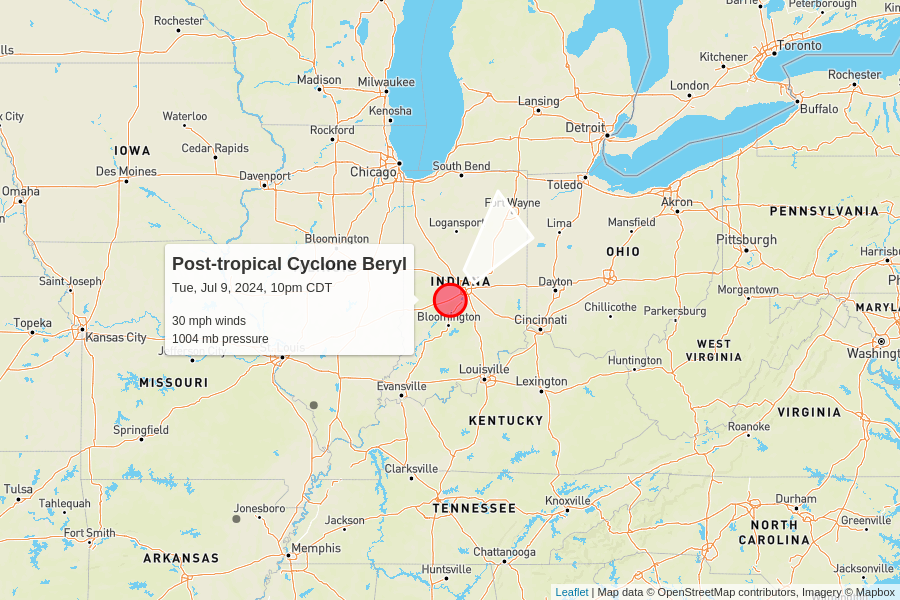
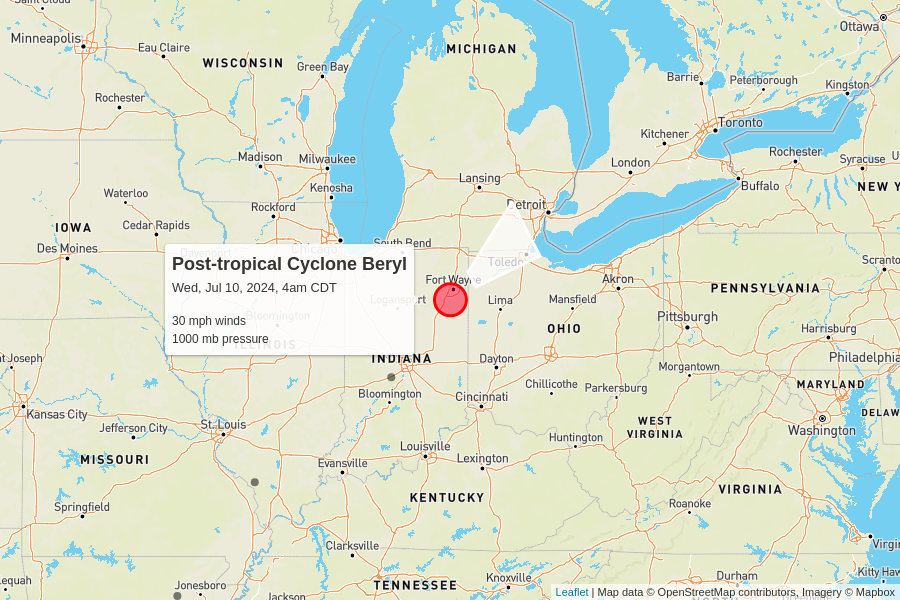
automatic update

diff --git a/docs/index.html b/docs/index.html
@@ -102,7 +102,7 @@
         <td colspan="6" class="storm category-0" >
           <h2>
             Post-tropical Cyclone Beryl
-            <p class="updated">last updated <span data-time>2024-07-10T03:00:00.000Z</span></p>
+            <p class="updated">last updated <span data-time>2024-07-10T09:00:00.000Z</span></p>
           </h2>
         </td>
       </tr>
@@ -118,11 +118,11 @@
       <tr>
         <td class="spacer"></td>
         <td>30 mph<br>0 mph since last update</td>
-        <td>1004 mb<br>-1 mb since last update</td>
+        <td>1000 mb<br>-4 mb since last update</td>
         <td>
           20 mph to the northeast
           <br/>
-          <span style="display: inline-block; font-size: 1.5em; transform: rotate(45deg);">↑</span>
+          <span style="display: inline-block; font-size: 1.5em; transform: rotate(55deg);">↑</span>
         </td>
         <td><a href="https://raw.githubusercontent.com/mgwalker/atlantic-hurricanes/main/data/csv/AL022024.csv">AL022024.csv</a></td>
         <td><a href="https://www.nhc.noaa.gov/archive/2024/BERYL.shtml?">NHC advisories</a></td>
